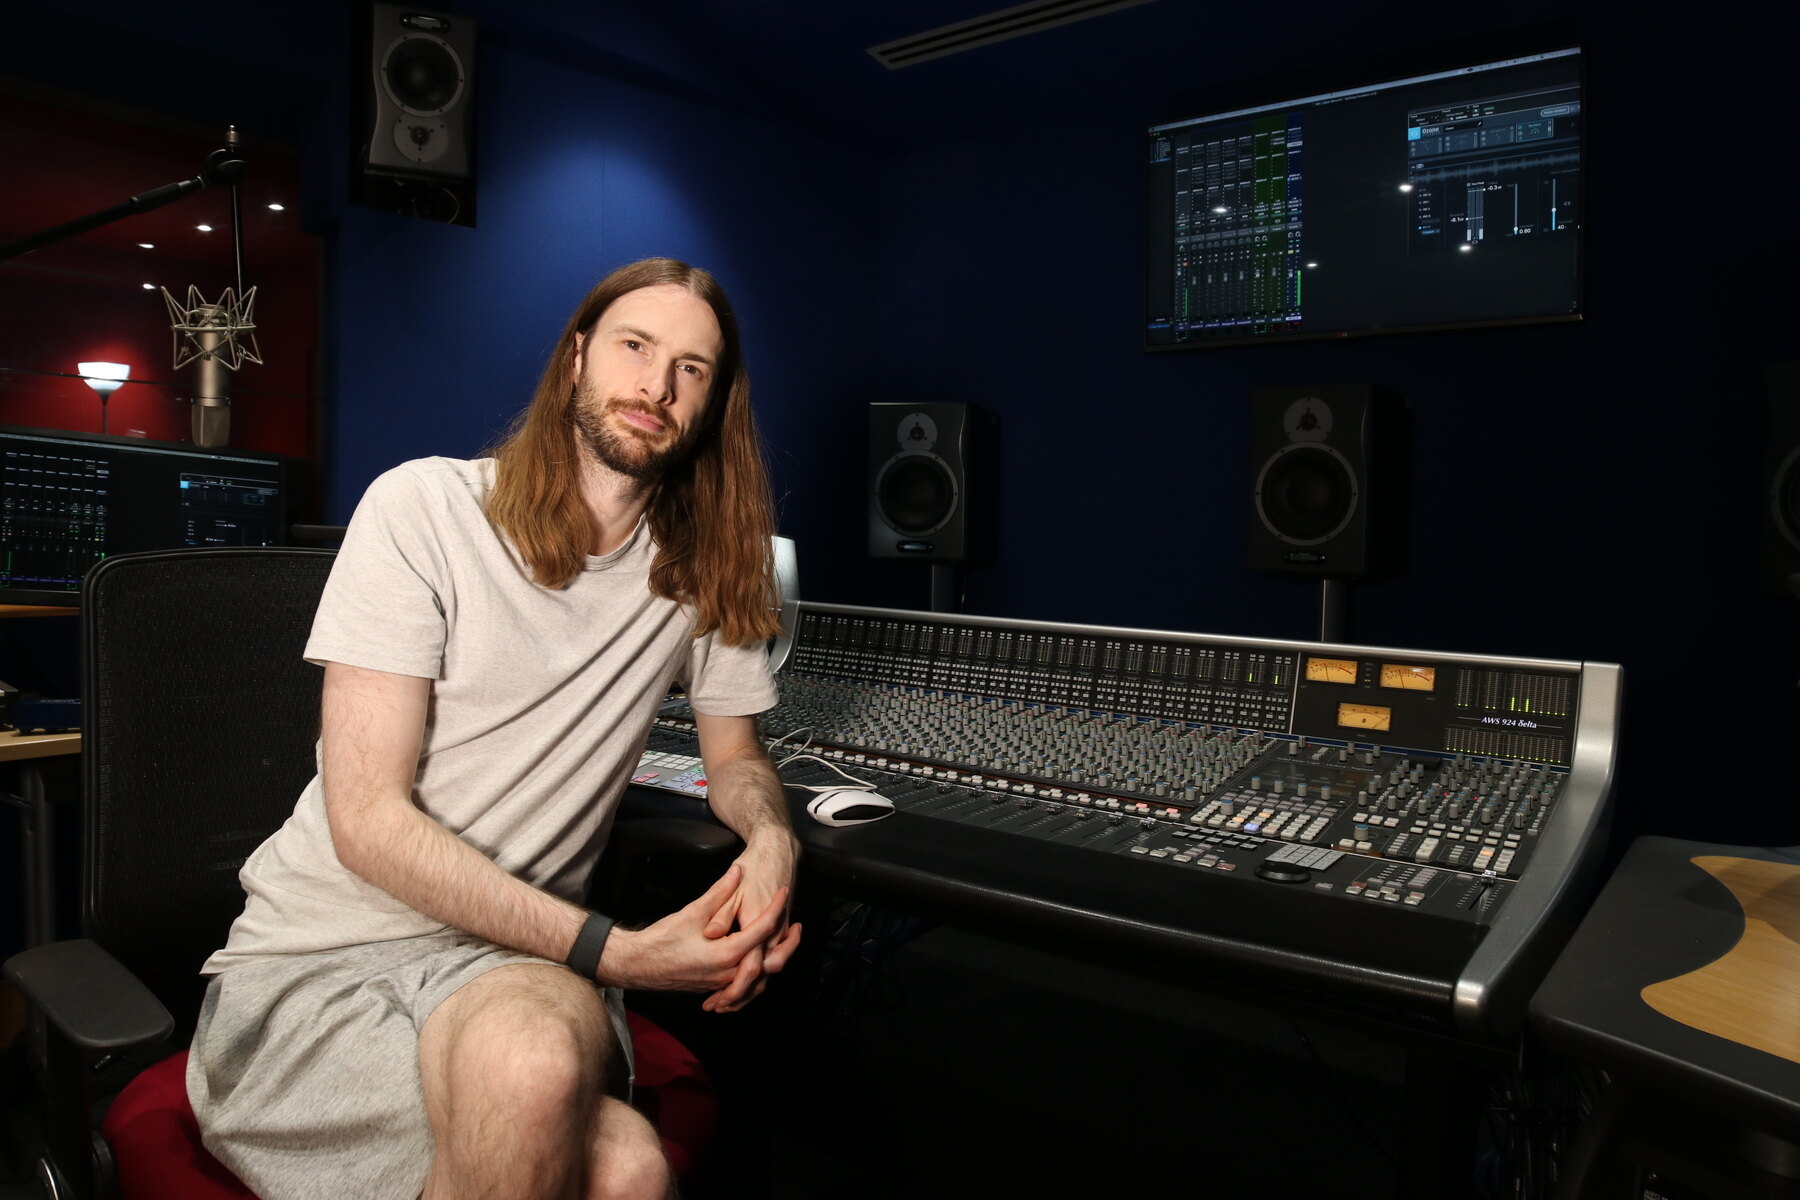
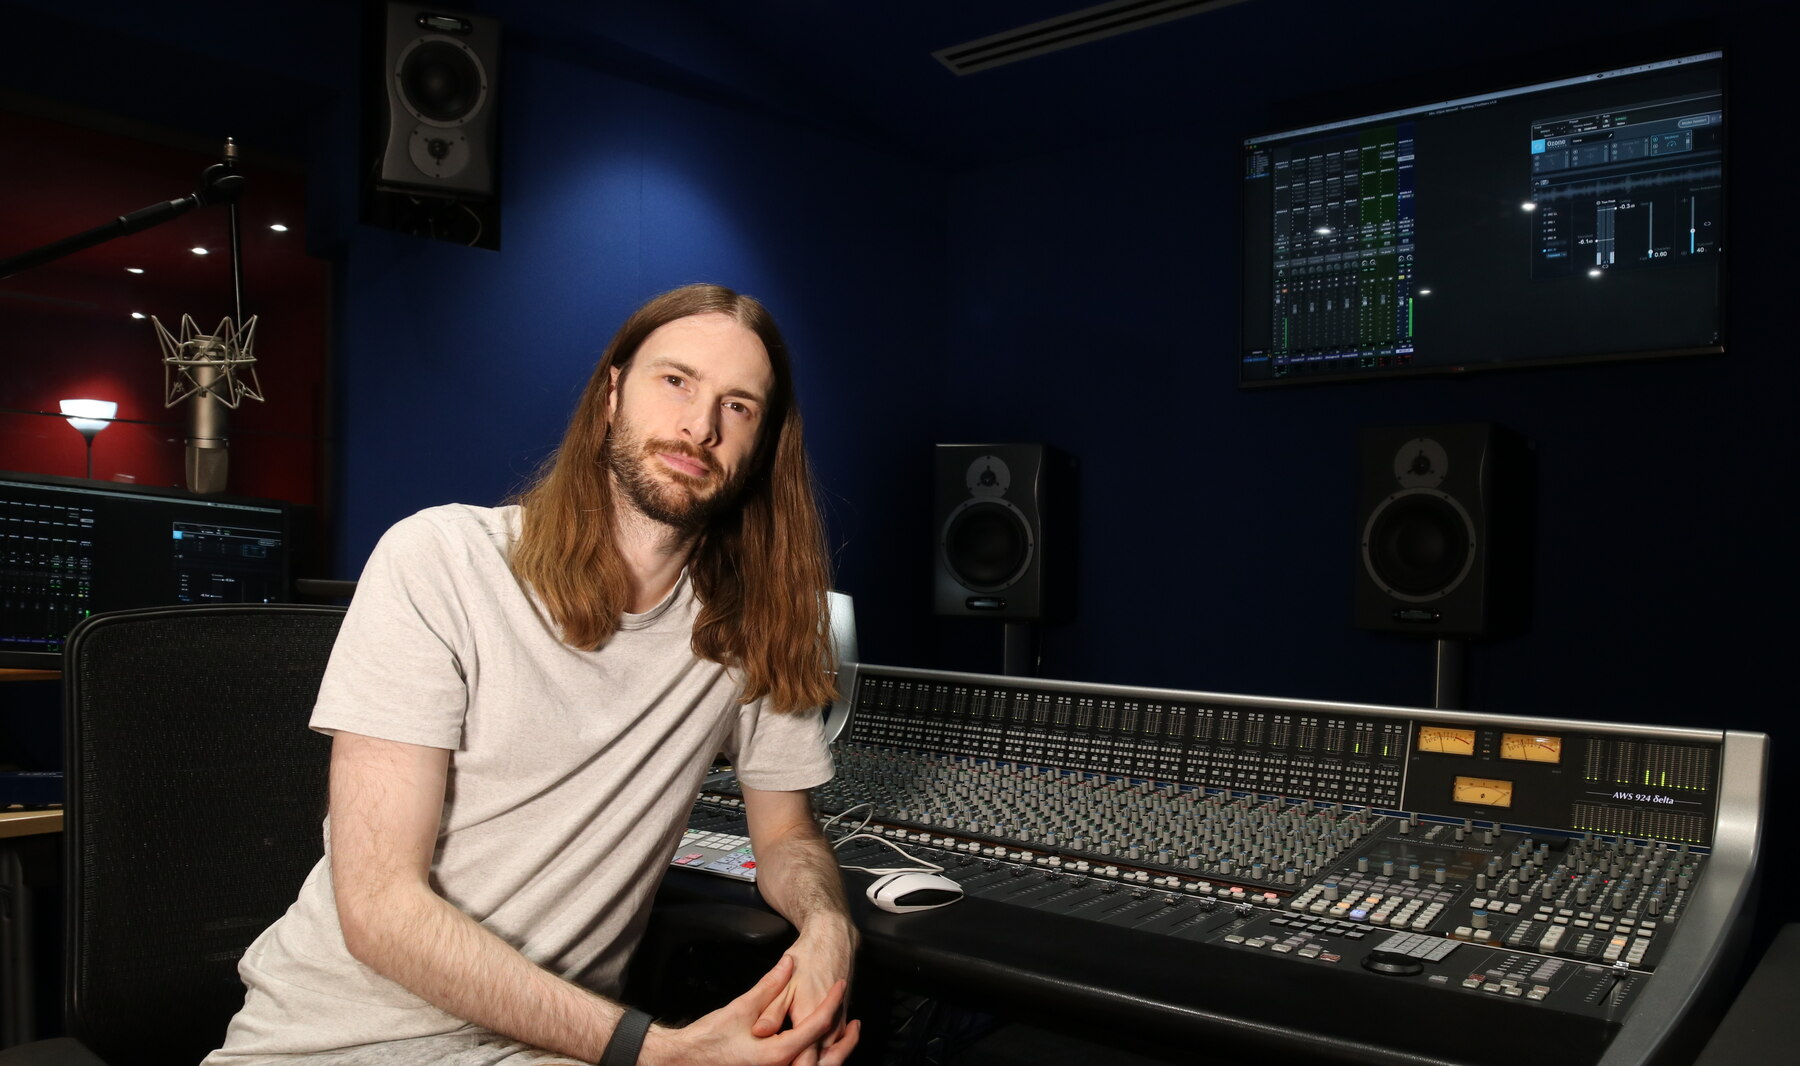
Update About portrait crop

diff --git a/about.html b/about.html
@@ -17,7 +17,7 @@
     <link rel="icon" type="image/png" sizes="512x512" href="favicon.png?v=20260819-portrait">
     <link rel="icon" href="favicon.ico?v=20260819-portrait" sizes="any">
     <link rel="apple-touch-icon" href="apple-touch-icon.png?v=20260819-portrait">
-    <link rel="stylesheet" href="styles.css?v=20260819-3">
+    <link rel="stylesheet" href="styles.css?v=20260819-4">
   </head>
   <body>
     <main class="site-shell">
@@ -50,7 +50,7 @@
         </div>
 
         <figure class="about-portrait">
-          <img src="assets/jack-about.jpg" alt="Jack A. Driscoll in a recording studio">
+          <img src="assets/jack-about.jpg?v=20260819-wide" alt="Jack A. Driscoll in a recording studio">
         </figure>
         <p>I offer production, mixing, mastering and session support. If you’d like to explore working together, please <a href="mailto:hi@jackdriscoll.uk">email me</a> to book a free consultation to discuss your project and next steps.</p>
         <p>Alongside my studio work, I’ve run and taught in the professional sound studio at London South Bank University, leading sessions and supporting artists through the record making process.</p>

diff --git a/styles.css b/styles.css
@@ -326,7 +326,7 @@ nav a:focus-visible {
 
 .about-portrait {
   margin: 0 0 32px;
-  width: min(100%, 680px);
+  width: min(100%, 750px);
 }
 
 .about-portrait img {
